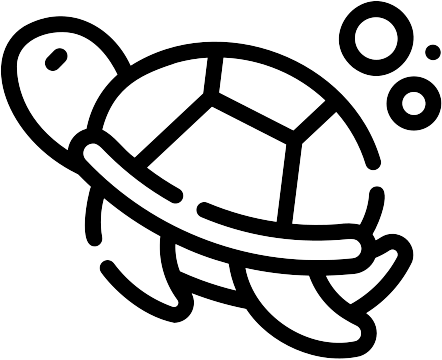
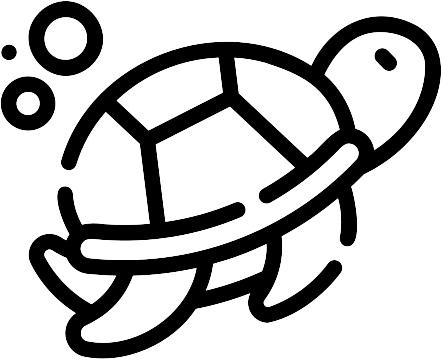
home finalizada

diff --git a/pag-principal/style.css b/pag-principal/style.css
@@ -19,7 +19,6 @@ a {
 
 #cabecalho {
     background-color: #fff;
-    color: #000;
     display: flex;
     height: 100px;
     flex-wrap: wrap;
@@ -52,11 +51,52 @@ a {
     }
 }
 
+/* ANIMAÇÕES */
+
+@keyframes aparecer-esquerda {
+    from {
+        opacity: 0;
+        translate: -100vw 0;
+    }
+    to {
+        opacity: 1;
+        translate: 0 0;
+    }
+}
+@keyframes aparecer-direita {
+    from {
+        opacity: 0;
+        translate: 200vw 0;
+    }
+    to {
+        opacity: 1;
+        translate: 0 0;
+    }
+}
+@keyframes aparecer-embaixo {
+    from {
+        opacity: 0;
+        translate: 0 200vh;
+    }
+    to {
+        opacity: 1;
+        translate: 0 0;
+    }
+}
+@keyframes aparecer-simples {
+    from {
+        opacity: 0;
+    }
+    to {
+        opacity: 1;
+    }
+}
+
 /* PRIMEIRA SEÇÃO */
 
 #banner-vp {
     width: 100%;
-    height: 50%;
+    display: block;
 }
 .section1 {
     background-image: linear-gradient(to bottom, #0049d7, #517fdc);
@@ -92,6 +132,16 @@ a {
 .box-texto-imagem div p strong {
     font-weight: 600;
 }
+.box1 {
+    animation: aparecer-esquerda 1ms ease-in-out;
+    animation-timeline: view();
+    animation-range: cover 0% cover 40%;
+}
+.box2 {
+    animation: aparecer-direita 1ms ease-in-out;
+    animation-timeline: view();
+    animation-range: cover 0% cover 40%;
+}
 
 /* SEÇÃO AJUDE E GANHE */
 
@@ -121,6 +171,21 @@ a {
 #ajude-e-ganhe div img {
     width: 350px;
 }
+#ajude-e-ganhe div p {
+    animation: aparecer-embaixo 1ms ease-in-out;
+    animation-timeline: view();
+    animation-range: cover 0% cover 20%;
+}
+#tartaruga-esq {
+    animation: aparecer-esquerda 1ms ease-in-out;
+    animation-timeline: view();
+    animation-range: cover 0% cover 40%;
+}
+#tartaruga-dir {
+    animation: aparecer-direita 1ms ease-in-out;
+    animation-timeline: view();
+    animation-range: cover 0% cover 37%;
+}
 #botao{
     background-color: #002e87;
     color: #fff;
@@ -138,6 +203,10 @@ a {
     font-weight: 600;
     letter-spacing: 3px;
     transition: all .2s ease-in;
+    
+    animation: aparecer-simples 1ms ease-in-out;
+    animation-timeline: view();
+    animation-range: cover 0% cover 30%;
 }
 #botao:hover{
     background-color: #00f;
@@ -190,9 +259,15 @@ a {
 }
 .mat-gab {
     align-self: left;
+    animation: aparecer-esquerda 1ms ease-in-out;
+    animation-timeline: view();
+    animation-range: cover 0% cover 30%;
 }
 .caio {
     align-self: flex-end;
+    animation: aparecer-direita 1ms ease-in-out;
+    animation-timeline: view();
+    animation-range: cover 0% cover 30%;
 }
 .foto {
     border-radius: 360px;
@@ -214,6 +289,9 @@ a {
 #container-link {
     height: 110px;
     align-self: center;
+    animation: aparecer-simples 1ms ease-in-out;
+    animation-timeline: view();
+    animation-range: cover 0% cover 30%;
 }  
 
 /* RODAPÉ */
@@ -228,8 +306,19 @@ footer {
     border-top: solid 1px #313131;
     font-size: 2rem;
 }
+footer ul {
+    display: flex;
+    gap: 20px;
+}
 footer ul li {
-    display: inline;
     list-style: none;
     margin: 80px;
+    display: flex;
+    flex-direction: row;
+    align-items: center;
+    justify-content: center;
+    gap: 15px;
+}
+footer ul li img {
+    width: 30px;
 }

diff --git a/index.html b/index.html
@@ -17,20 +17,18 @@
             </ul>
         </nav>
     </header>
-
     <img id="banner-vp" src="./img/banner-vp-innovation.png" alt="Banner VP Innovation">
-
     <section class="section1">
         <div>
             <h1>Preservando os oceanos por meio da tecnologia</h1>
         </div>
-        <div class="box-texto-imagem">
+        <div class="box-texto-imagem box1">
             <img src="./img/baleia-preenchida.png" alt="Ícone Baleia">
             <div>
                 <p>Atualmente, os oceanos enfrentam diversos desafios, como a pesca ilegal, o descarte inadequado de lixo e/ou materiais tóxicos e o uso desmedido dos recursos desses ambientes. Tudo isso causa a destruição dos habitats marinhos e o empobrecimento da biodiversidade. A VP busca auxiliar na preservação de todo esse ecossistema usando o que mais entende: <strong>Tecnologia</strong>.</p>
             </div>
         </div>
-        <div class="box-texto-imagem">
+        <div class="box-texto-imagem box2">
             <div>
                 <p>Imagine um sistema que recebe chamados ambientais dos usuários de forma completamente autônoma, rápida e virtual. Além disso, analisa as solicitações e as encaminha para as autoridades locais responsáveis, que podem resolver o problema!</p>
             </div>
@@ -41,9 +39,9 @@
     <section id="ajude-e-ganhe">
         <h2>Ajude e Ganhe</h2>
         <div>
-            <img src="./img/tartaruga-d.png" alt="Ícone Tartaruga">
+            <img id="tartaruga-esq" src="./img/tartaruga-e.png" alt="Ícone Tartaruga">
             <p>Aqui na VP todo mundo sai ganhando!<br>A cada chamado atendido, a pessoa responsável pelo mesmo recebe pontos que podem ser trocados por dinheiro. Ou seja, além de ajudar o meio ambiente, você ainda ganha uma recompensa!</p>
-            <img src="./img/tartaruga-e.png" alt="Ícone Tartaruga">
+            <img id="tartaruga-dir" src="./img/tartaruga-d.png" alt="Ícone Tartaruga">
         </div>
         <a id="botao" href="./pag-login/login.html">COMECE JÁ!</a>
     </section>
@@ -88,9 +86,10 @@
     </section>
     <footer>
         <ul id="contato">
-            <li>contato 1</li>
-            <li>contato 2</li>
-            <li>contato 3</li>
+            <li><img src="./img/icone-instagram.png" alt="Ícone Instagram">vpinnovation</li>
+            <li><img src="./img/icone-email.png" alt="Ícone E-mail">comercial@vpinnovation.com</li>
+            
+            <li><img src="./img/icone-x.png" alt="Ícone X">vpinnovation</li>
         </ul>
     </footer>
 </body>
